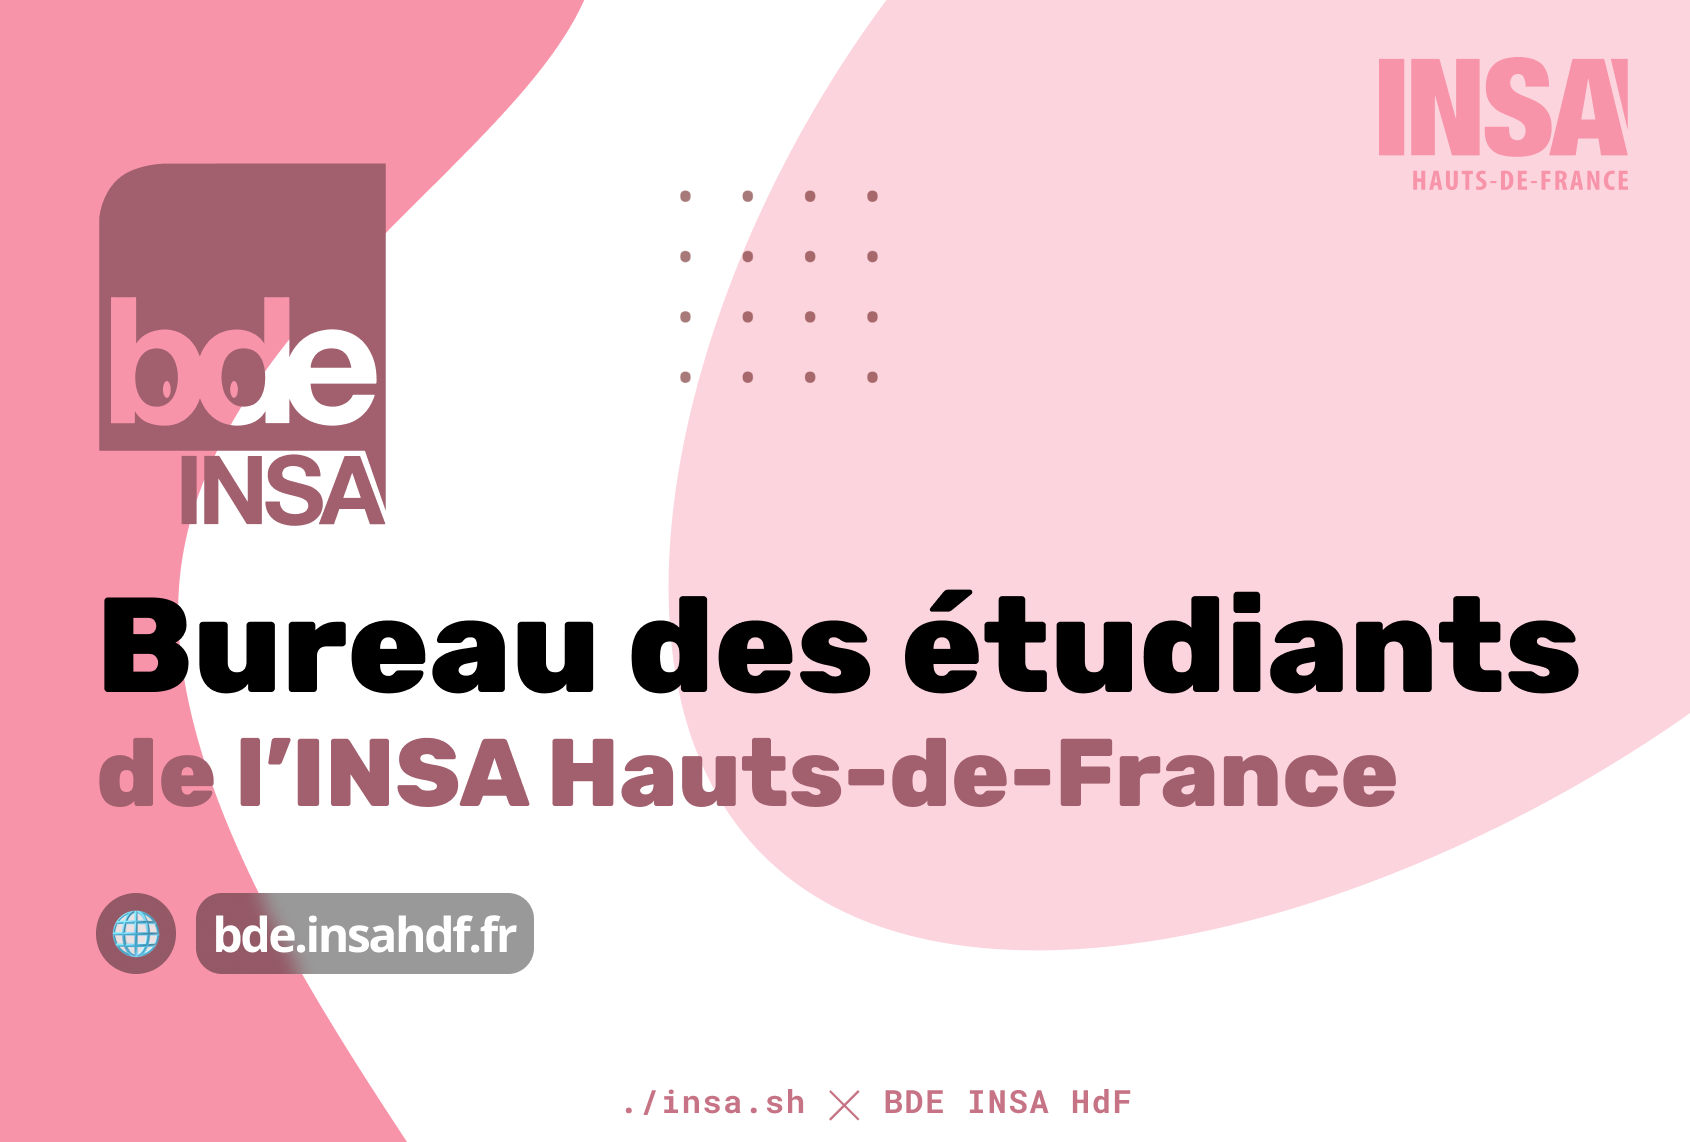
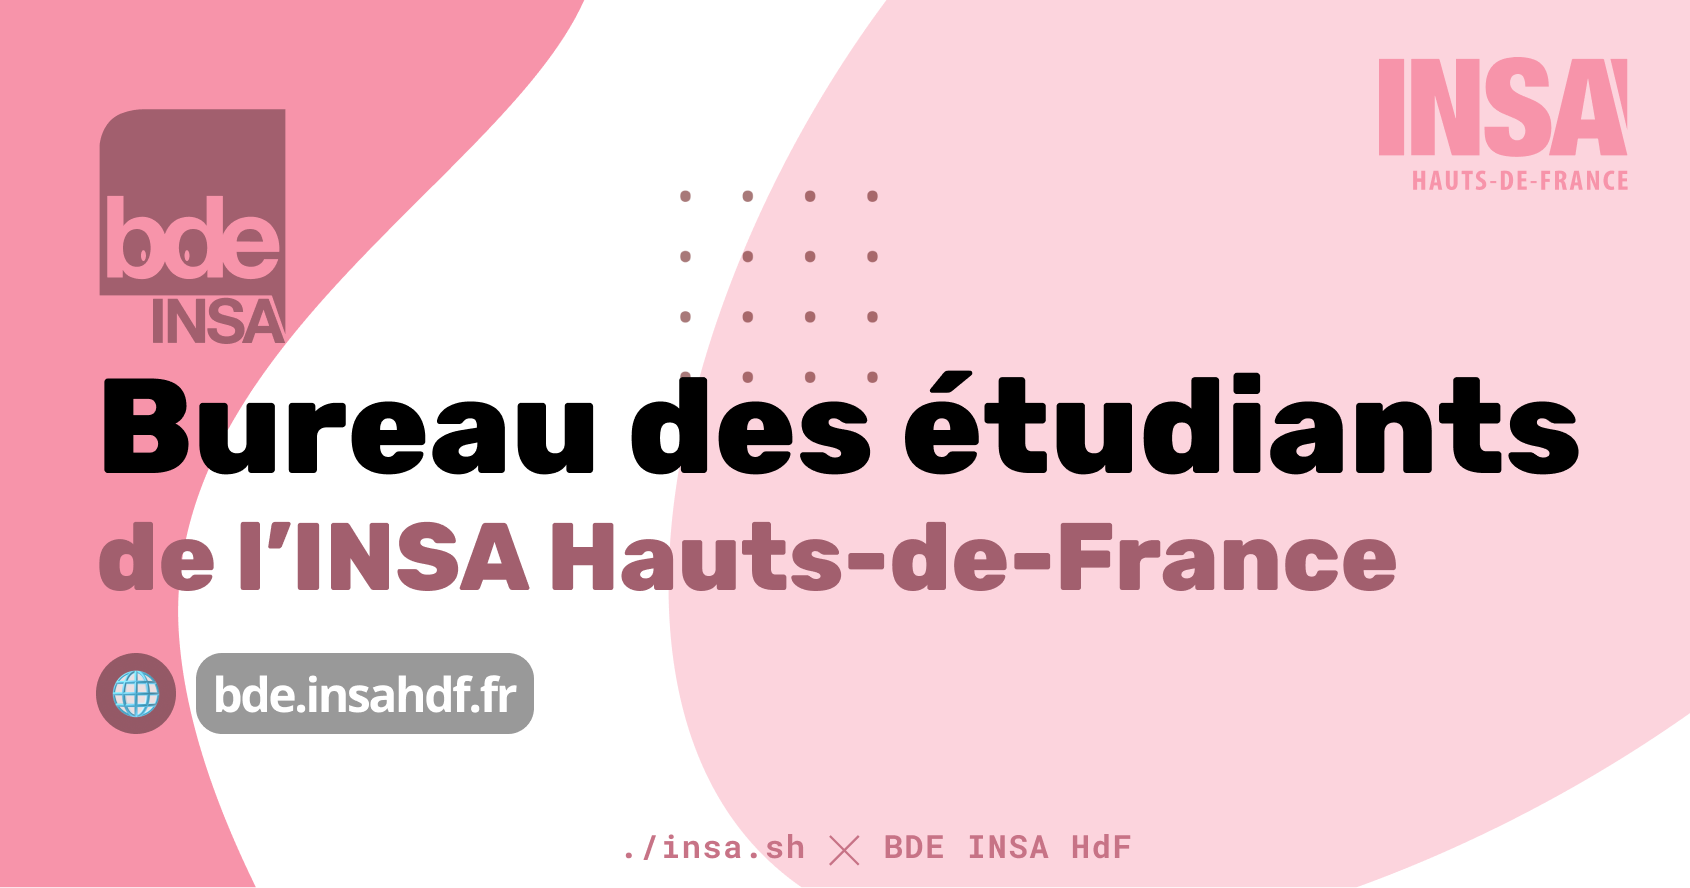
fix: Better format for preview image

diff --git a/docusaurus.config.js b/docusaurus.config.js
@@ -77,7 +77,7 @@ const config = {
     /** @type {import('@docusaurus/preset-classic').ThemeConfig} */
     ({
       // Replace with your project's social card
-      image: 'img/favicon.svg',
+      image: 'img/shared-preview.png',
       navbar: {
         title: 'BDE INSA HdF',
         logo: {
@@ -350,7 +350,7 @@ const config = {
       },
       metadata: [
       {name: 'keywords', content: 'BDE, INSA,INSA HdF, INSA Hauts-de-France, Nouvel étudiant, Bureau des étudiants, rentrée, Vie étudiante, Vie associative, partenariat'},
-      {name: 'og:image', content: 'https://bde.insahdf.fr/img/shared-preview.png'},
+
     ]
 
 
